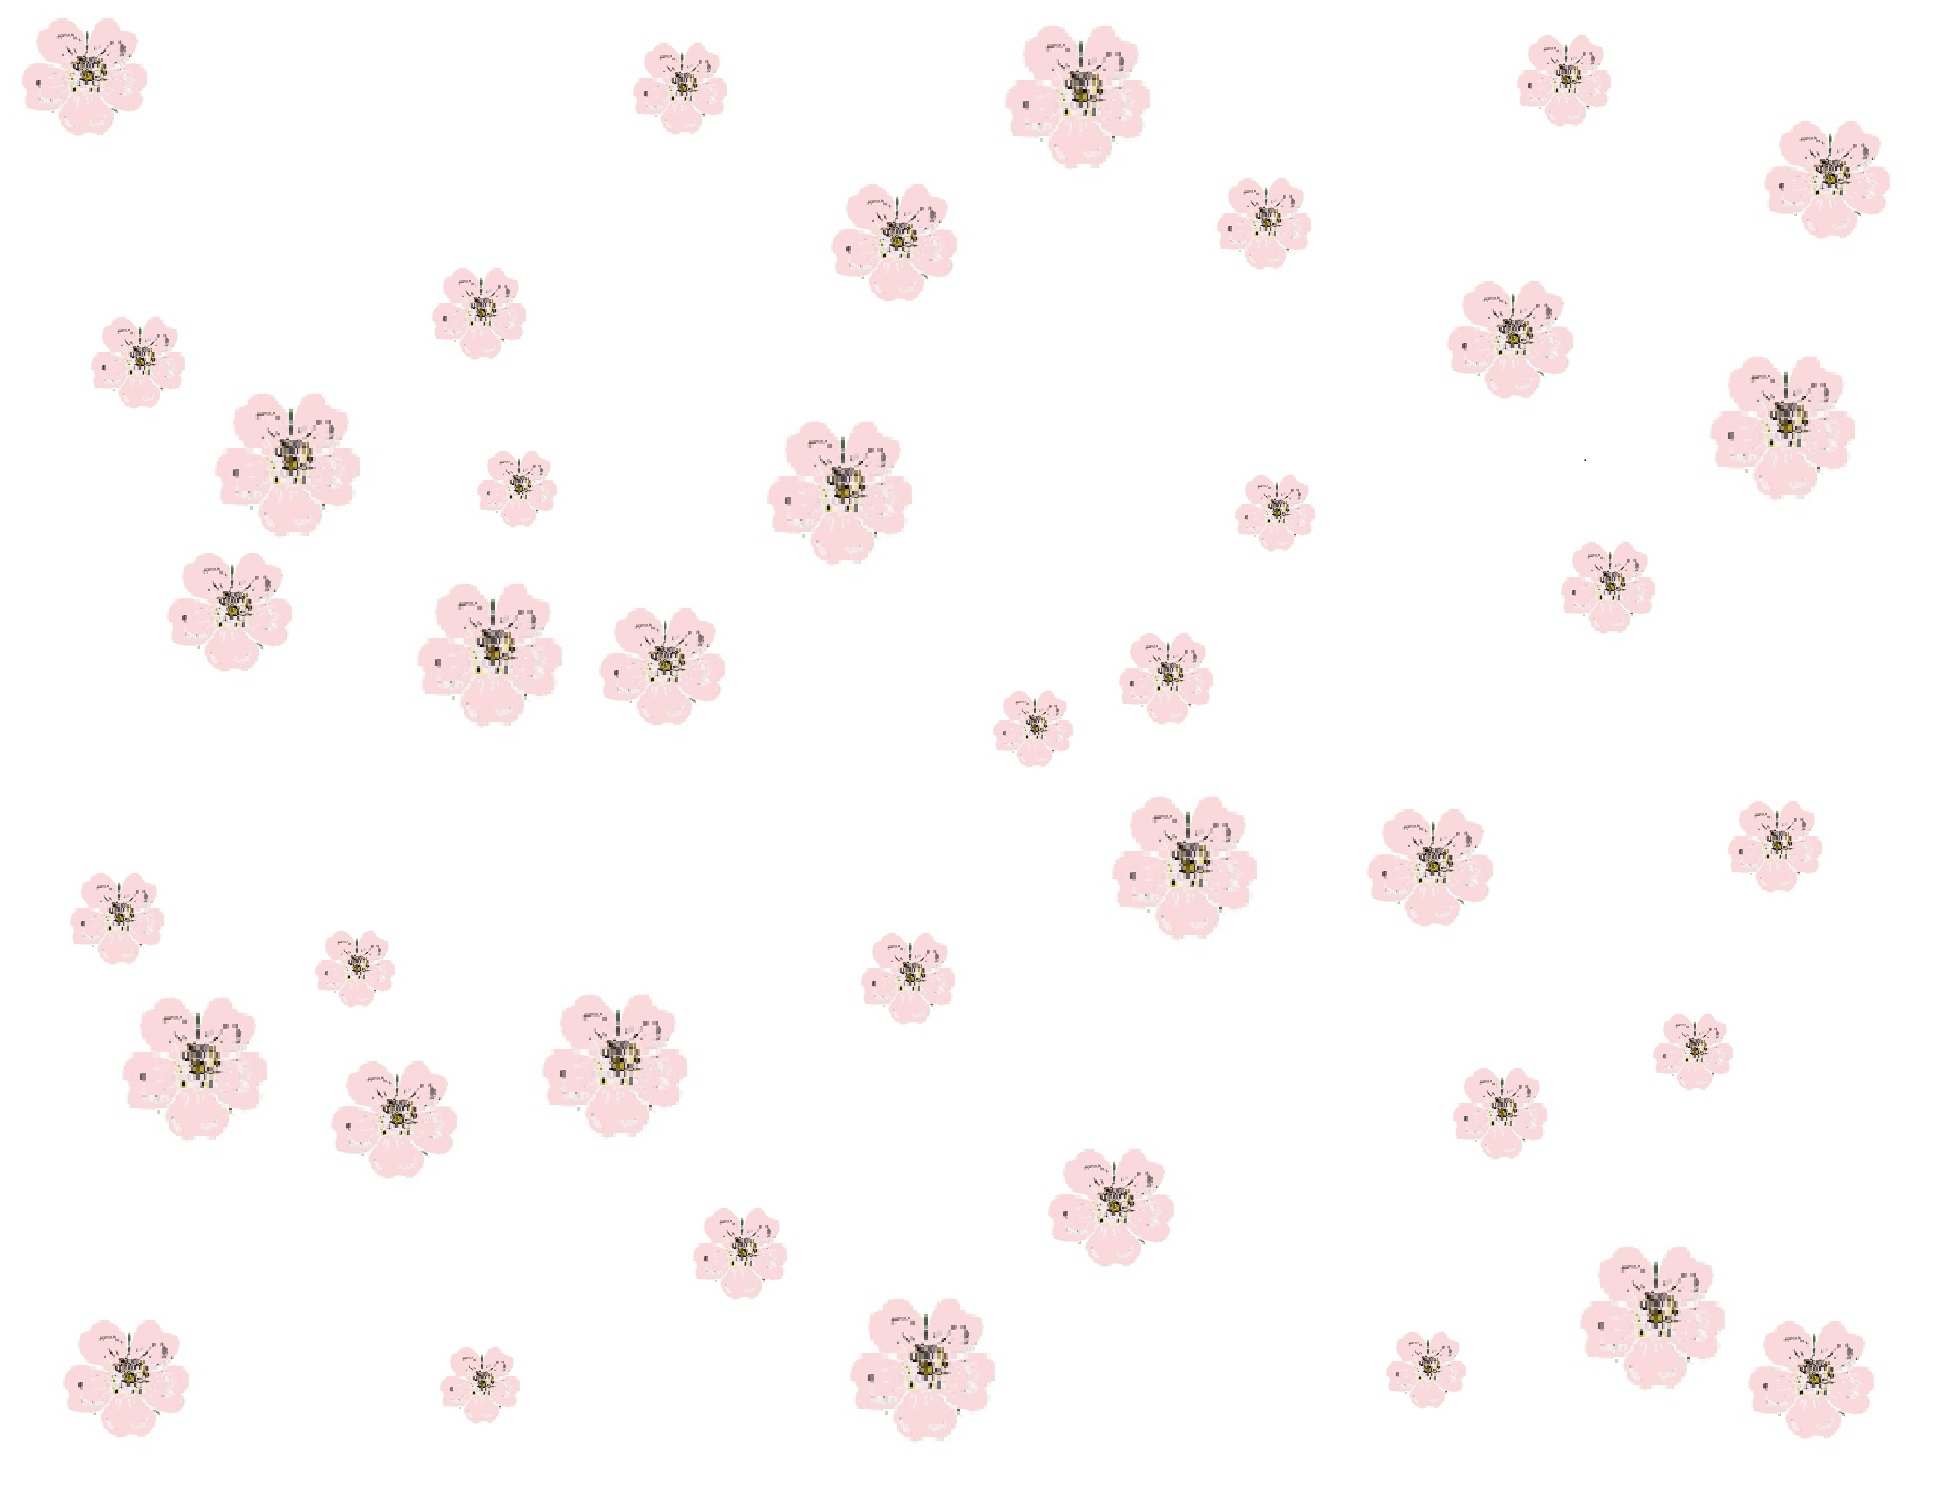
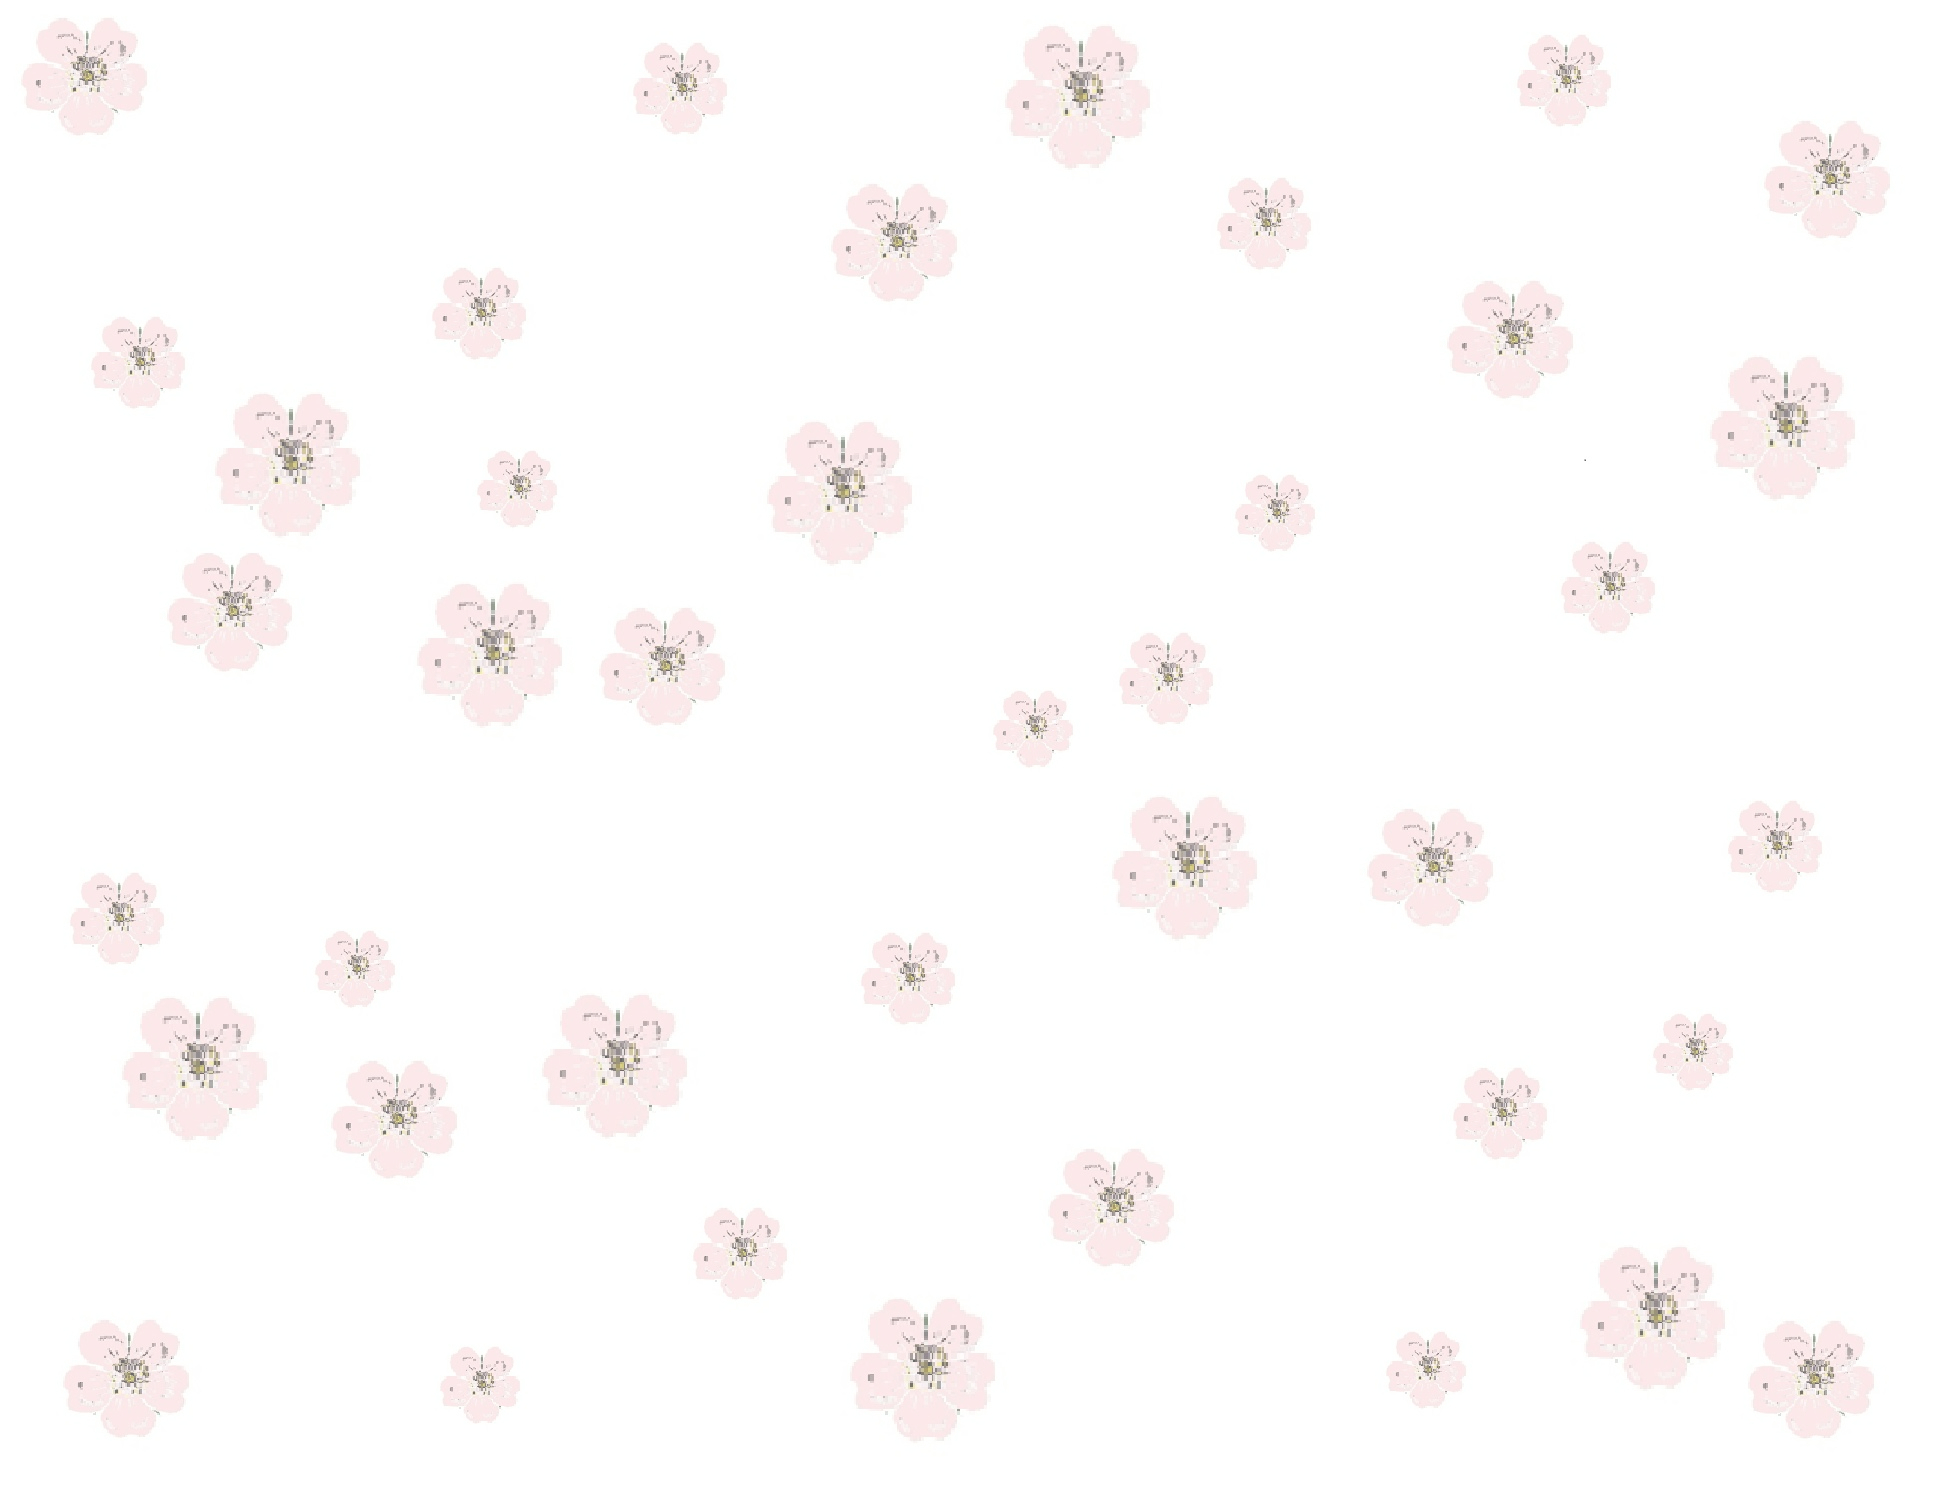
background modified

diff --git a/frontend/src/components/appRouter/AppRouter.module.css b/frontend/src/components/appRouter/AppRouter.module.css
@@ -1,6 +1,5 @@
 .main {
-	background-image: url(../../images/background.jpg),
-		linear-gradient(45deg, #bbaaaa, #e0d4d4);
+	background-image: url(../../images/background.jpg);
 	background-size: 50%;
 	background-blend-mode: overlay;
 	padding-bottom: 100px;
